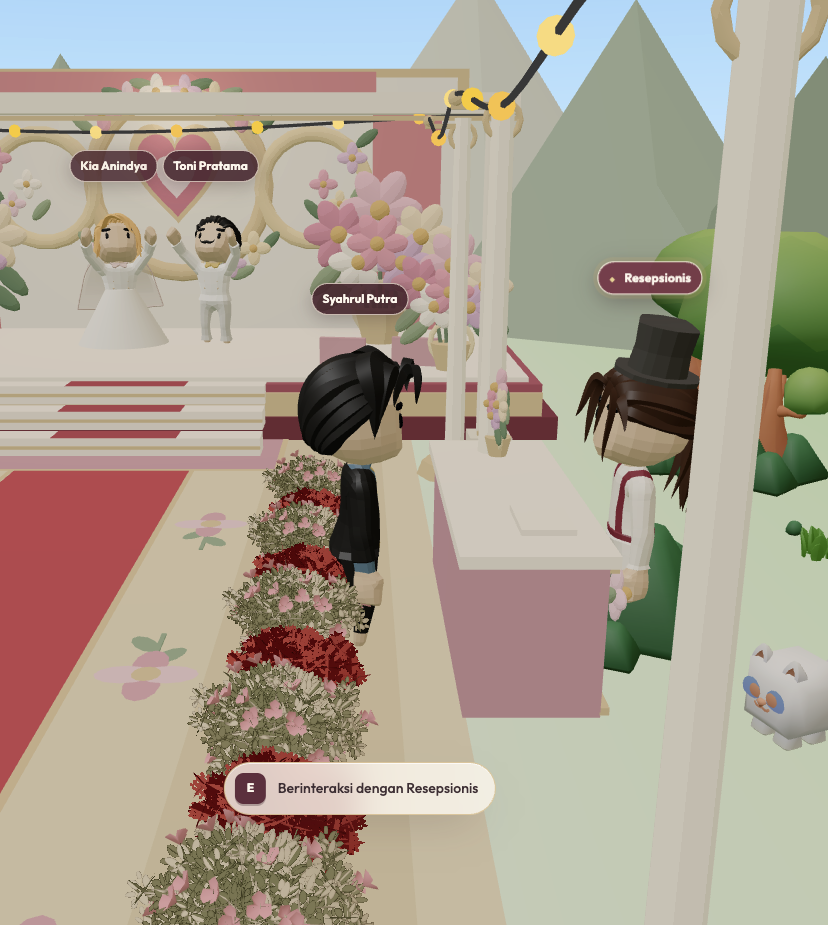
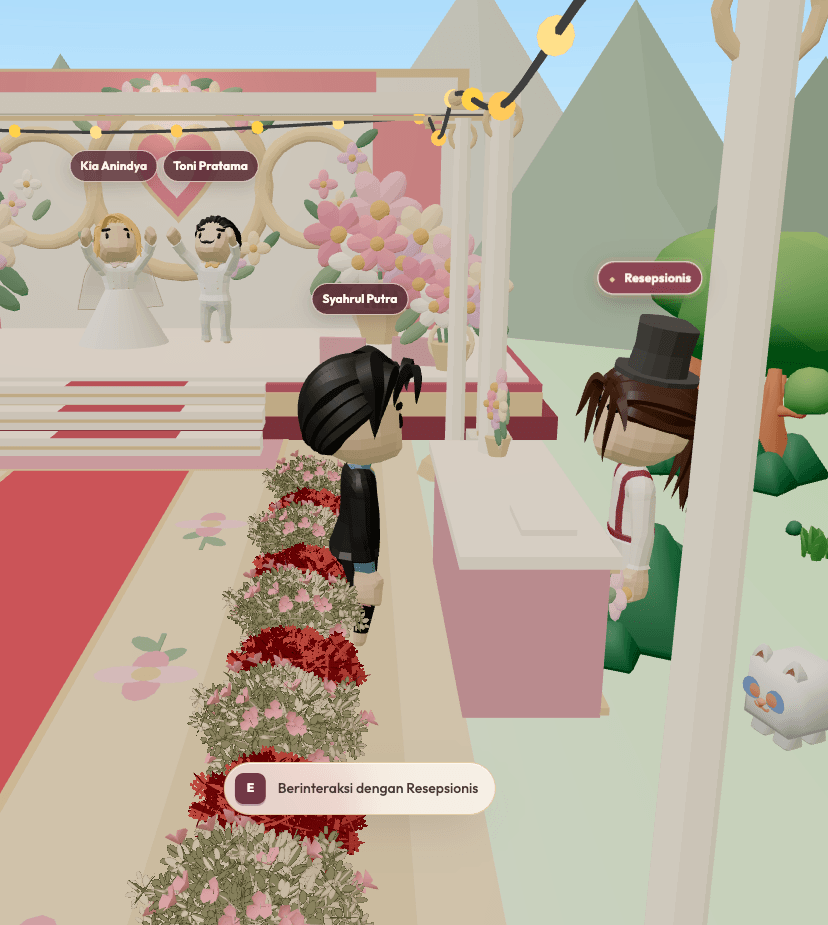
updated code

diff --git a/src/lib/components/ui/InvitationLoading.svelte b/src/lib/components/ui/InvitationLoading.svelte
@@ -1,0 +1,94 @@
+<script lang="ts">
+  let {
+    brideName = '',
+    groomName = '',
+    progress = 0,
+  }: {
+    brideName?: string
+    groomName?: string
+    progress?: number
+  } = $props()
+
+  const pct = $derived(Math.round(Math.max(0, Math.min(1, progress)) * 100))
+  const couple = $derived(brideName && groomName ? `${brideName.toUpperCase()} & ${groomName.toUpperCase()}` : '')
+</script>
+
+<div class="invitation-loading" role="status" aria-live="polite" aria-busy="true">
+  <div class="loading-mark" aria-hidden="true">MARRYME</div>
+  <h1>Menyiapkan undangan</h1>
+  <p>
+    {#if couple}
+      Memuat undangan pernikahan {couple}.
+    {:else}
+      Memuat ruang interaktif.
+    {/if}
+  </p>
+  <div class="loading-track" role="progressbar" aria-label="Memuat undangan" aria-valuemin="0" aria-valuemax="100" aria-valuenow={pct}>
+    <div class="loading-bar" style={`width: ${Math.max(8, pct)}%`}></div>
+  </div>
+</div>
+
+<style>
+  .invitation-loading {
+    position: absolute;
+    inset: 0;
+    z-index: 50;
+    display: flex;
+    flex-direction: column;
+    align-items: center;
+    justify-content: center;
+    box-sizing: border-box;
+    padding: 2rem;
+    background: linear-gradient(160deg, #fff8ef 0%, #fbe6d8 55%, #f3cdbf 100%);
+    color: #2a1f24;
+    text-align: center;
+    font-family: Outfit, 'Segoe UI', system-ui, sans-serif;
+  }
+
+  .loading-mark {
+    color: #c44565;
+    font: 600 0.9rem/1 'Playfair Display', Georgia, serif;
+    letter-spacing: 0.18em;
+    animation: loading-pulse 1.2s ease-in-out infinite;
+  }
+
+  h1 {
+    margin: 1rem 0 0;
+    color: #713645;
+    font: 600 clamp(1.6rem, 6vw, 2.2rem)/1.05 'Playfair Display', Georgia, serif;
+  }
+
+  p {
+    max-width: 22rem;
+    margin: 0.75rem 0 0;
+    color: #806e72;
+    font-size: 0.875rem;
+    line-height: 1.5;
+  }
+
+  .loading-track {
+    width: min(22rem, 100%);
+    height: 0.375rem;
+    margin-top: 2rem;
+    overflow: hidden;
+    border: 1px solid rgba(196, 157, 91, 0.3);
+    border-radius: 999px;
+    background: rgba(255, 255, 255, 0.5);
+  }
+
+  .loading-bar {
+    height: 100%;
+    border-radius: inherit;
+    background: linear-gradient(90deg, #d96b7a, #c9a45e);
+    transition: width 300ms ease-out;
+  }
+
+  @keyframes loading-pulse {
+    50% { transform: scale(1.08); opacity: 0.72; }
+  }
+
+  @media (prefers-reduced-motion: reduce) {
+    .loading-mark { animation-duration: 2.5s; }
+    .loading-bar { transition: none; }
+  }
+</style>

diff --git a/src/lib/components/ui/LoadingScreen.svelte b/src/lib/components/ui/LoadingScreen.svelte
@@ -3,36 +3,18 @@
   import { isLoaded } from '../../stores/gameState.svelte'
   import { loadProgress } from '../../stores/loadProgress.svelte'
   import { weddingConfig } from '../../stores/weddingConfig.svelte'
+  import InvitationLoading from './InvitationLoading.svelte'
 
   onMount(() => {
     document.getElementById('startup-shell')?.remove()
   })
 
-  const pct = $derived(Math.round($loadProgress * 100))
 </script>
 
 {#if !$isLoaded}
-  <div class="absolute inset-0 z-50 flex flex-col items-center justify-center p-8 text-center" style="background: linear-gradient(160deg, #fff8ef 0%, #fbe6d8 55%, #f3cdbf 100%);">
-    <div class="mx-auto flex h-20 w-20 items-center justify-center">
-      <div class="absolute h-16 w-16 animate-spin rounded-full border-4 border-[var(--rose)]/20 border-t-[var(--rose)]"></div>
-      <span class="animate-pulse text-3xl">💖</span>
-    </div>
-    <h2 class="mt-4 font-serif text-3xl font-bold tracking-wide text-[var(--deep-rose)]">Halo, Undangan yang Terhormat</h2>
-    <p class="mt-3 max-w-sm text-sm text-[var(--ink)]/60">
-      Sedang memuat undangan pernikahan {$weddingConfig.bride_name?.toUpperCase() || 'KIA'} &amp; {$weddingConfig.groom_name?.toUpperCase() || 'TONI'}<br />
-      <span class="text-[var(--ink)]/40">Harap tunggu sebentar…</span>
-    </p>
-    <div
-      class="loading-track mt-8 h-1.5 w-full max-w-sm overflow-hidden rounded-full border border-[var(--champagne)]/30 bg-white/50"
-      role="progressbar"
-      aria-valuemin={0}
-      aria-valuemax={100}
-      aria-valuenow={pct}
-    >
-      <div
-        class="loading-bar h-full rounded-full bg-gradient-to-r from-[var(--rose)] to-[var(--champagne)] transition-[width] duration-300 ease-out"
-        style="width: {Math.max(8, pct)}%"
-      ></div>
-    </div>
-  </div>
+  <InvitationLoading
+    brideName={$weddingConfig.bride_name}
+    groomName={$weddingConfig.groom_name}
+    progress={$loadProgress}
+  />
 {/if}

diff --git a/src/app.html b/src/app.html
@@ -26,8 +26,8 @@
       font-family: Outfit, "Segoe UI", Tahoma, Geneva, Verdana, sans-serif;
     }
      #startup-shell .mark { color: #c44565; font: 600 1rem/1 "Playfair Display", Georgia, serif; letter-spacing: .18em; animation: startup-pulse 1.2s ease-in-out infinite; }
-     #startup-shell h1 { margin: 1rem 0 0; color: #2a1f24; font-family: "Playfair Display", Georgia, serif; font-size: clamp(1.6rem, 6vw, 2rem); }
-    #startup-shell p { margin: .75rem 0 0; max-width: 22rem; color: #7a6a70; font-size: .875rem; line-height: 1.5; }
+     #startup-shell h1 { margin: 1rem 0 0; color: #713645; font-family: "Playfair Display", Georgia, serif; font-size: clamp(1.6rem, 6vw, 2.2rem); }
+    #startup-shell p { margin: .75rem 0 0; max-width: 22rem; color: #806e72; font-size: .875rem; line-height: 1.5; }
     #startup-shell .bar { width: min(22rem, 100%); height: .375rem; margin-top: 2rem; overflow: hidden; border-radius: 999px; background: #f0e4e8; }
      #startup-shell .bar::after { display: block; width: 42%; height: 100%; border-radius: inherit; background: #d96b7a; content: ""; animation: startup-load 1.1s ease-in-out infinite; }
     @keyframes startup-pulse { 50% { transform: scale(1.08); opacity: .72; } }
@@ -40,8 +40,8 @@
 <body data-sveltekit-preload-data="hover">
   <div id="startup-shell" role="status" aria-live="polite">
     <div class="mark" aria-hidden="true">MARRYME</div>
-    <h1>Menyiapkan halaman</h1>
-    <p>Memuat pengalaman MarryMe.</p>
+    <h1>Menyiapkan undangan</h1>
+    <p>Memuat ruang interaktif.</p>
     <div class="bar" aria-hidden="true"></div>
   </div>
   <div style="display: contents">%sveltekit.body%</div>

diff --git a/src/lib/components/tenant/TenantBootstrap.svelte b/src/lib/components/tenant/TenantBootstrap.svelte
@@ -2,15 +2,16 @@
   import { onMount, type Component } from 'svelte'
   import { configError, configStatus, loadConfig } from '../../stores/weddingConfig.svelte'
   import TenantStateScreen from './TenantStateScreen.svelte'
+  import InvitationLoading from '../ui/InvitationLoading.svelte'
 
   let InvitationApp = $state<Component>()
 
   async function bootstrap() {
+    const appPromise = import('../../../App.svelte')
     await loadConfig()
-    if ($configStatus === 'ready') {
-      const module = await import('../../../App.svelte')
-      InvitationApp = module.default
-    }
+    if ($configStatus !== 'ready') return
+    const module = await appPromise
+    InvitationApp = module.default
   }
 
   onMount(() => {
@@ -29,6 +30,6 @@
   <TenantStateScreen state="notFound" />
 {:else if $configStatus === 'error'}
   <TenantStateScreen state="error" message={$configError} onRetry={() => void bootstrap()} />
-{:else}
-  <TenantStateScreen state="loading" />
-{/if}
+  {:else}
+    <InvitationLoading />
+  {/if}
